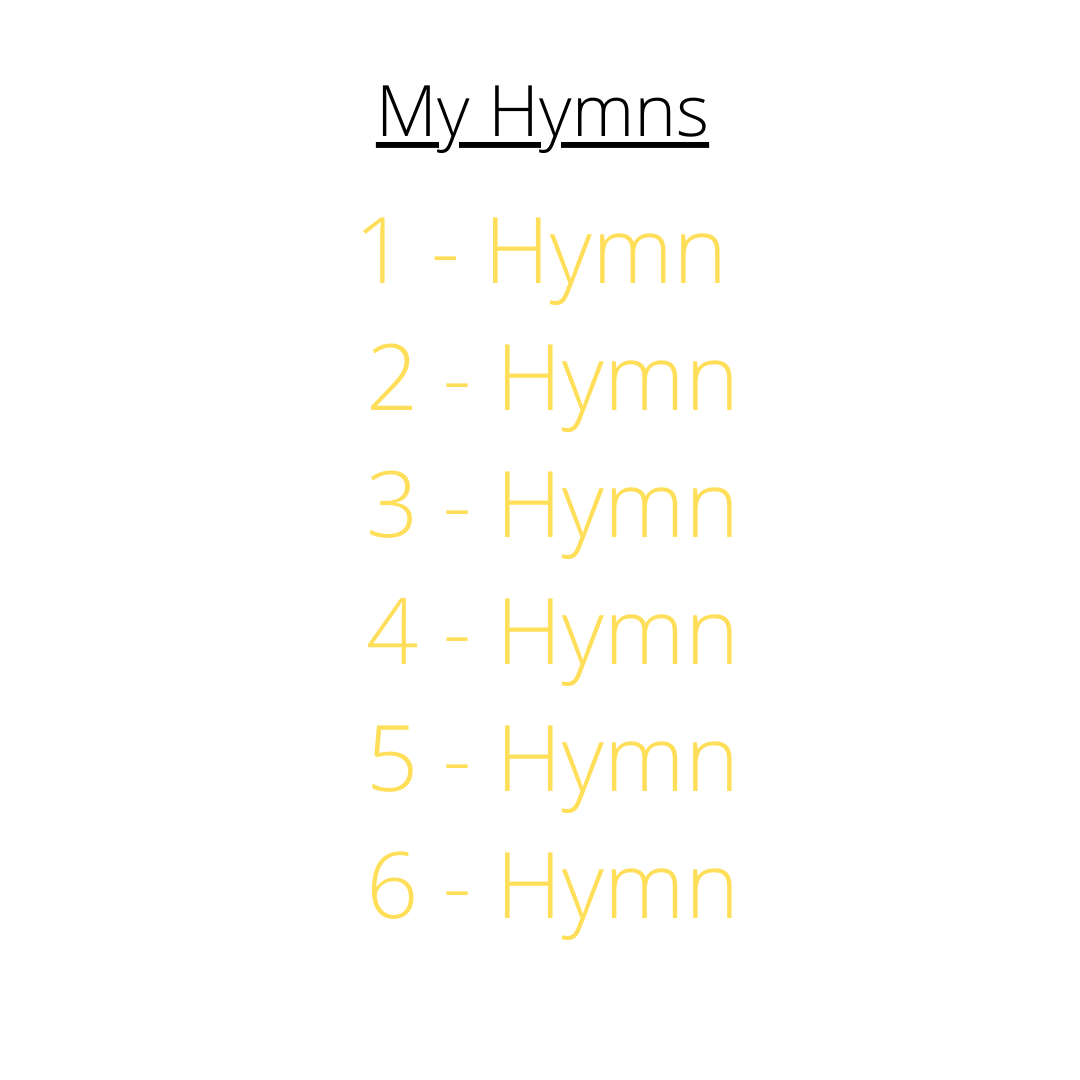
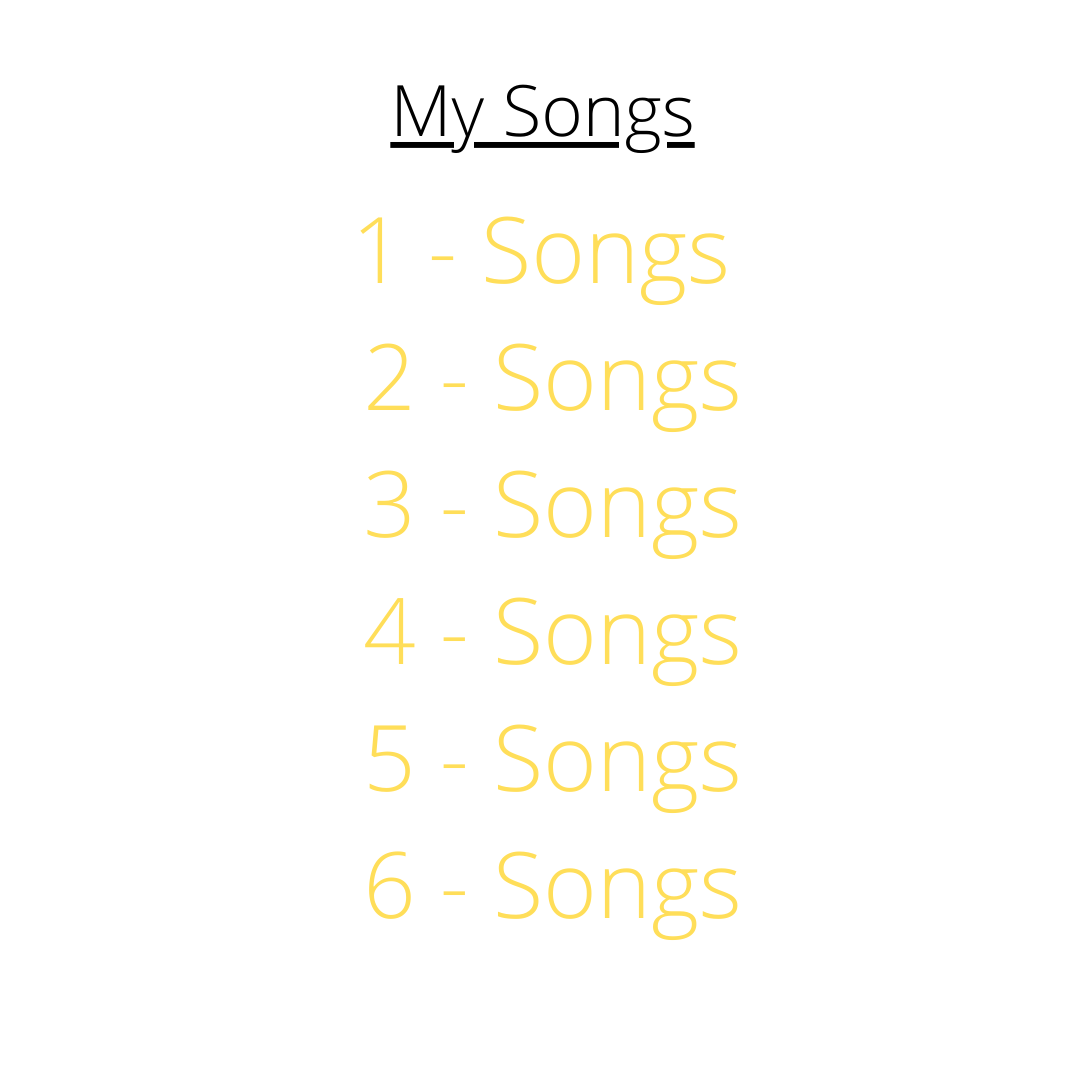
renamed repertoire and hymns to song

diff --git a/README.md b/README.md
@@ -18,8 +18,6 @@ This platform allows choir members to connect to other members in their chorus. 
 * As a user, I want to add/delete my song list
 * As a user, I want to be see message board post and to select ONE post and view it by itself
 
-
-
 ## STRETCH GOALS…
 * As a user, I want to be able to search ALL music/repertoire through a search bar
 * As a user, I want to add images to my profile
@@ -45,7 +43,7 @@ Sign Up Page
 <img src="./assets/wireframes/SignUp.png" width="600px" alt="Sign Up Page" />
 
 
-SongS INDEX - logged in
+Songs INDEX - logged in
 <img src="./assets/wireframes/hymnsIndex.png" width="600px" alt="Header view - logged in" />
 
 Show Song
